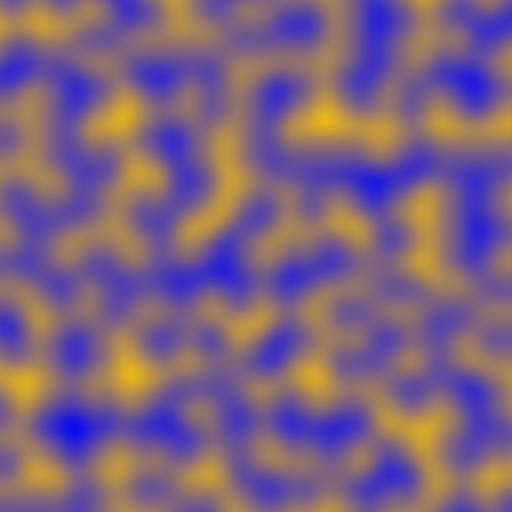
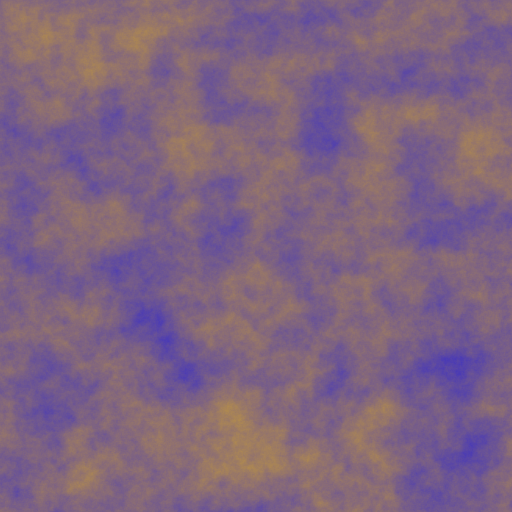
added some color as well

diff --git a/src/main/java/core/PerlinNoise.java b/src/main/java/core/PerlinNoise.java
@@ -1,19 +1,53 @@
 package core;
 
+import java.io.FileReader;
+import java.io.FileWriter;
+import java.io.IOException;
+import java.lang.reflect.Type;
 import java.util.ArrayList;
+import java.util.Arrays;
 import java.util.Collections;
 import java.util.List;
+
+import com.google.gson.Gson;
+import com.google.gson.reflect.TypeToken;
 
 public class PerlinNoise {
 
     private final int[] permutation = new int[512];
+    Gson gson = new Gson();
 
-    public PerlinNoise() {
+    public PerlinNoise(boolean randomize) {
         List<Integer> tempList = new ArrayList<>();
-        for (int i = 0; i < 256; i++) {
-            tempList.add(i); // Fill with values 0 to 255
+
+        if (randomize == true) {
+            for (int i = 0; i < 256; i++) {
+                tempList.add(i); // Fill with values 0 to 255
+            }
+            Collections.shuffle(tempList); // Shuffle the list
+            // Convert List to JSON
+            String json = gson.toJson(tempList);
+            try (FileWriter writer = new FileWriter("output.json")) {
+                writer.write(json);
+            } catch (IOException e) {
+                e.printStackTrace();
+            }
+        } else {
+            try (FileReader reader = new FileReader("output.json")) {
+                // Define the type of the data in the JSON file
+                Type listType = new TypeToken<Integer[]>() {}.getType();
+
+                // Deserialize JSON to Array
+                Integer[] dataArray = gson.fromJson(reader, listType);
+                tempList = Arrays.asList(dataArray);
+                // Output the array
+                System.out.println(Arrays.toString(dataArray));
+            } catch (IOException e) {
+                e.printStackTrace();
+            }
+
         }
-        Collections.shuffle(tempList); // Shuffle the list
+
         for (int i = 0; i < 256; i++) {
             permutation[i] = tempList.get(i); // Copy values to permutation array
             permutation[256 + i] = permutation[i]; // Repeat the permutation at the second half of the array

diff --git a/src/main/java/core/App.java b/src/main/java/core/App.java
@@ -10,14 +10,14 @@ import java.io.IOException;
  *
  */
 public class App {
-    private static PerlinNoise perlin = new PerlinNoise();
+    private static PerlinNoise perlin = new PerlinNoise(false);
     private static int width = 512;
     private static int height = 512;
 
     // Multi-Octave Noise Parameters
-    private static int octaves = 1;
-    private static double persistence = 0.99;
-    private static double frequency = 0.02;
+    private static int octaves = 10;
+    private static double persistence = 0.7;
+    private static double frequency = 0.010;
     private static double amplitude = 0.01;
 
     public static void main(String[] args) {
